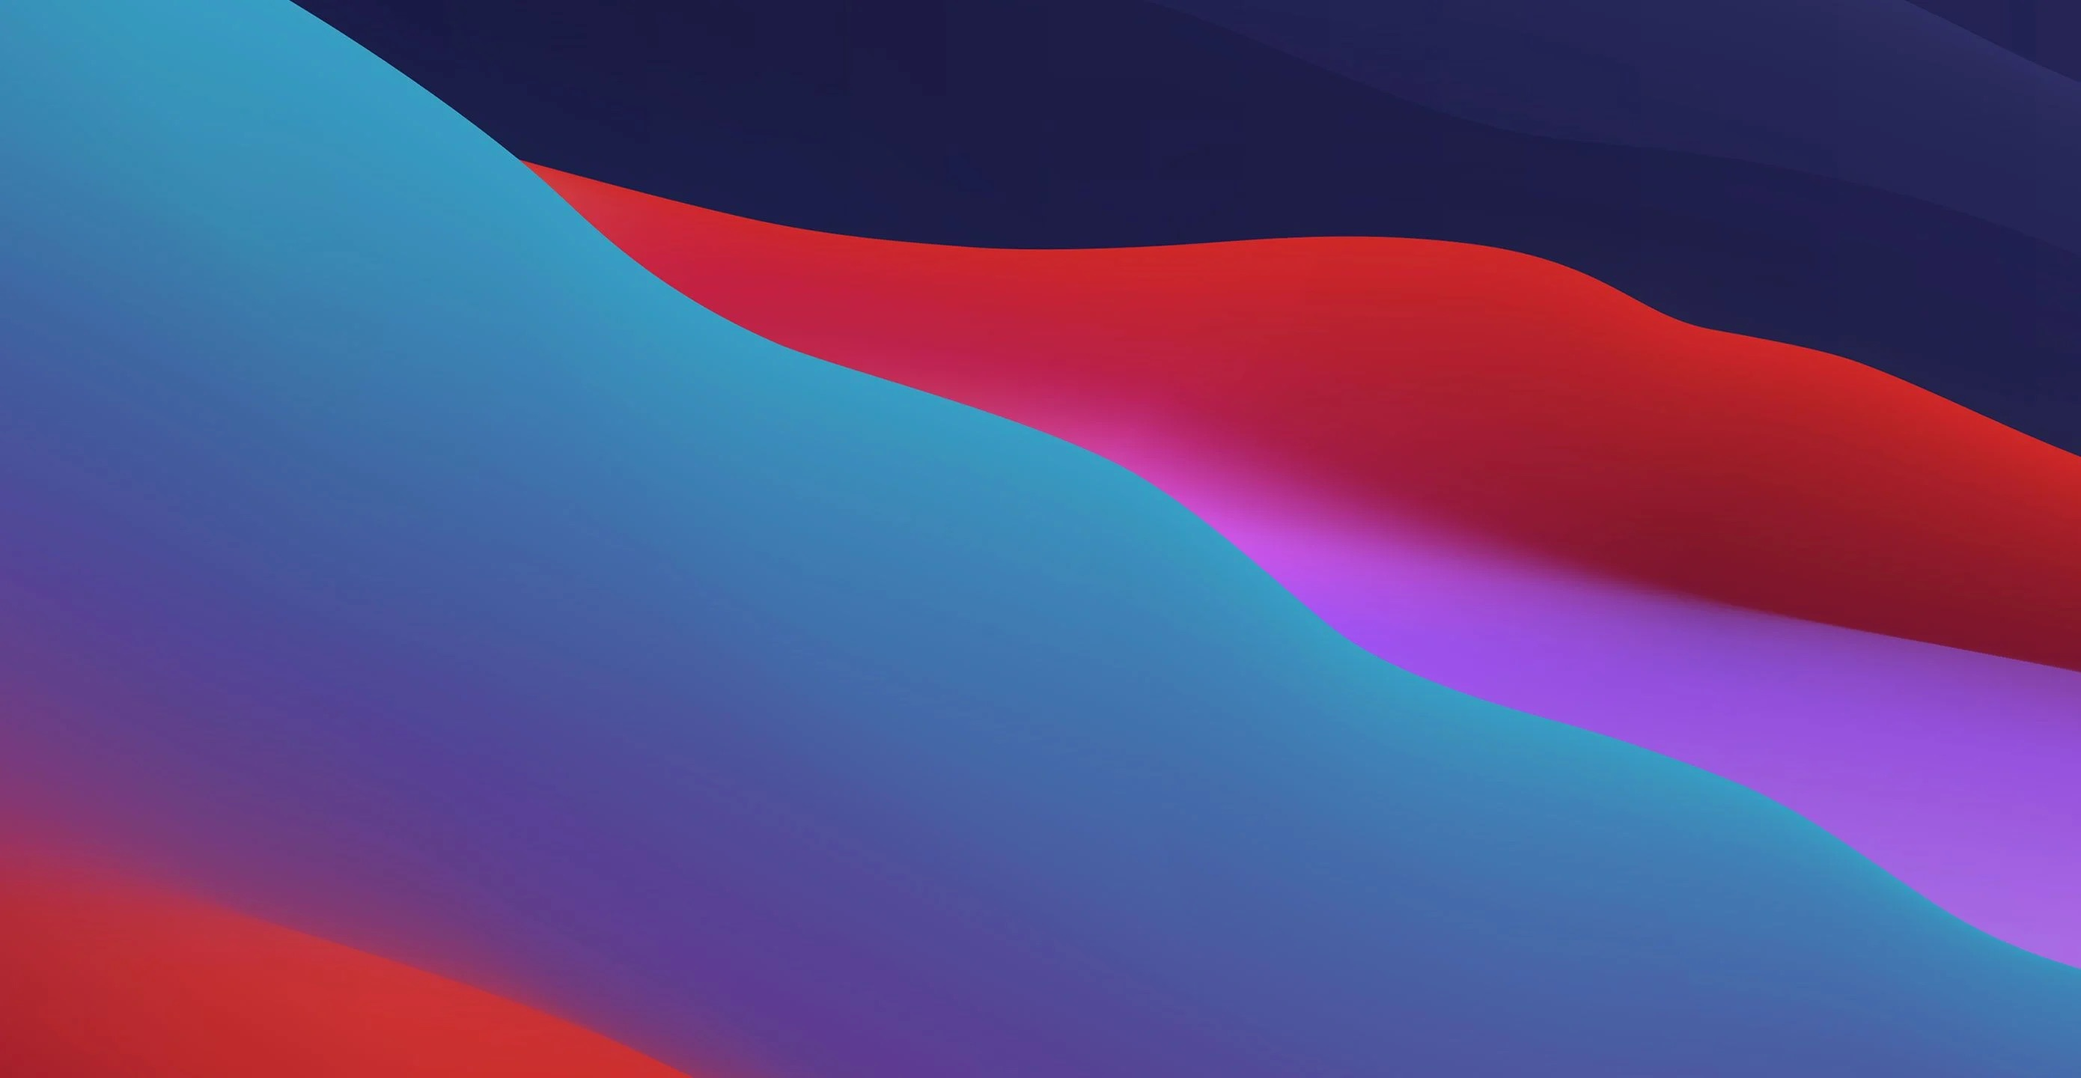
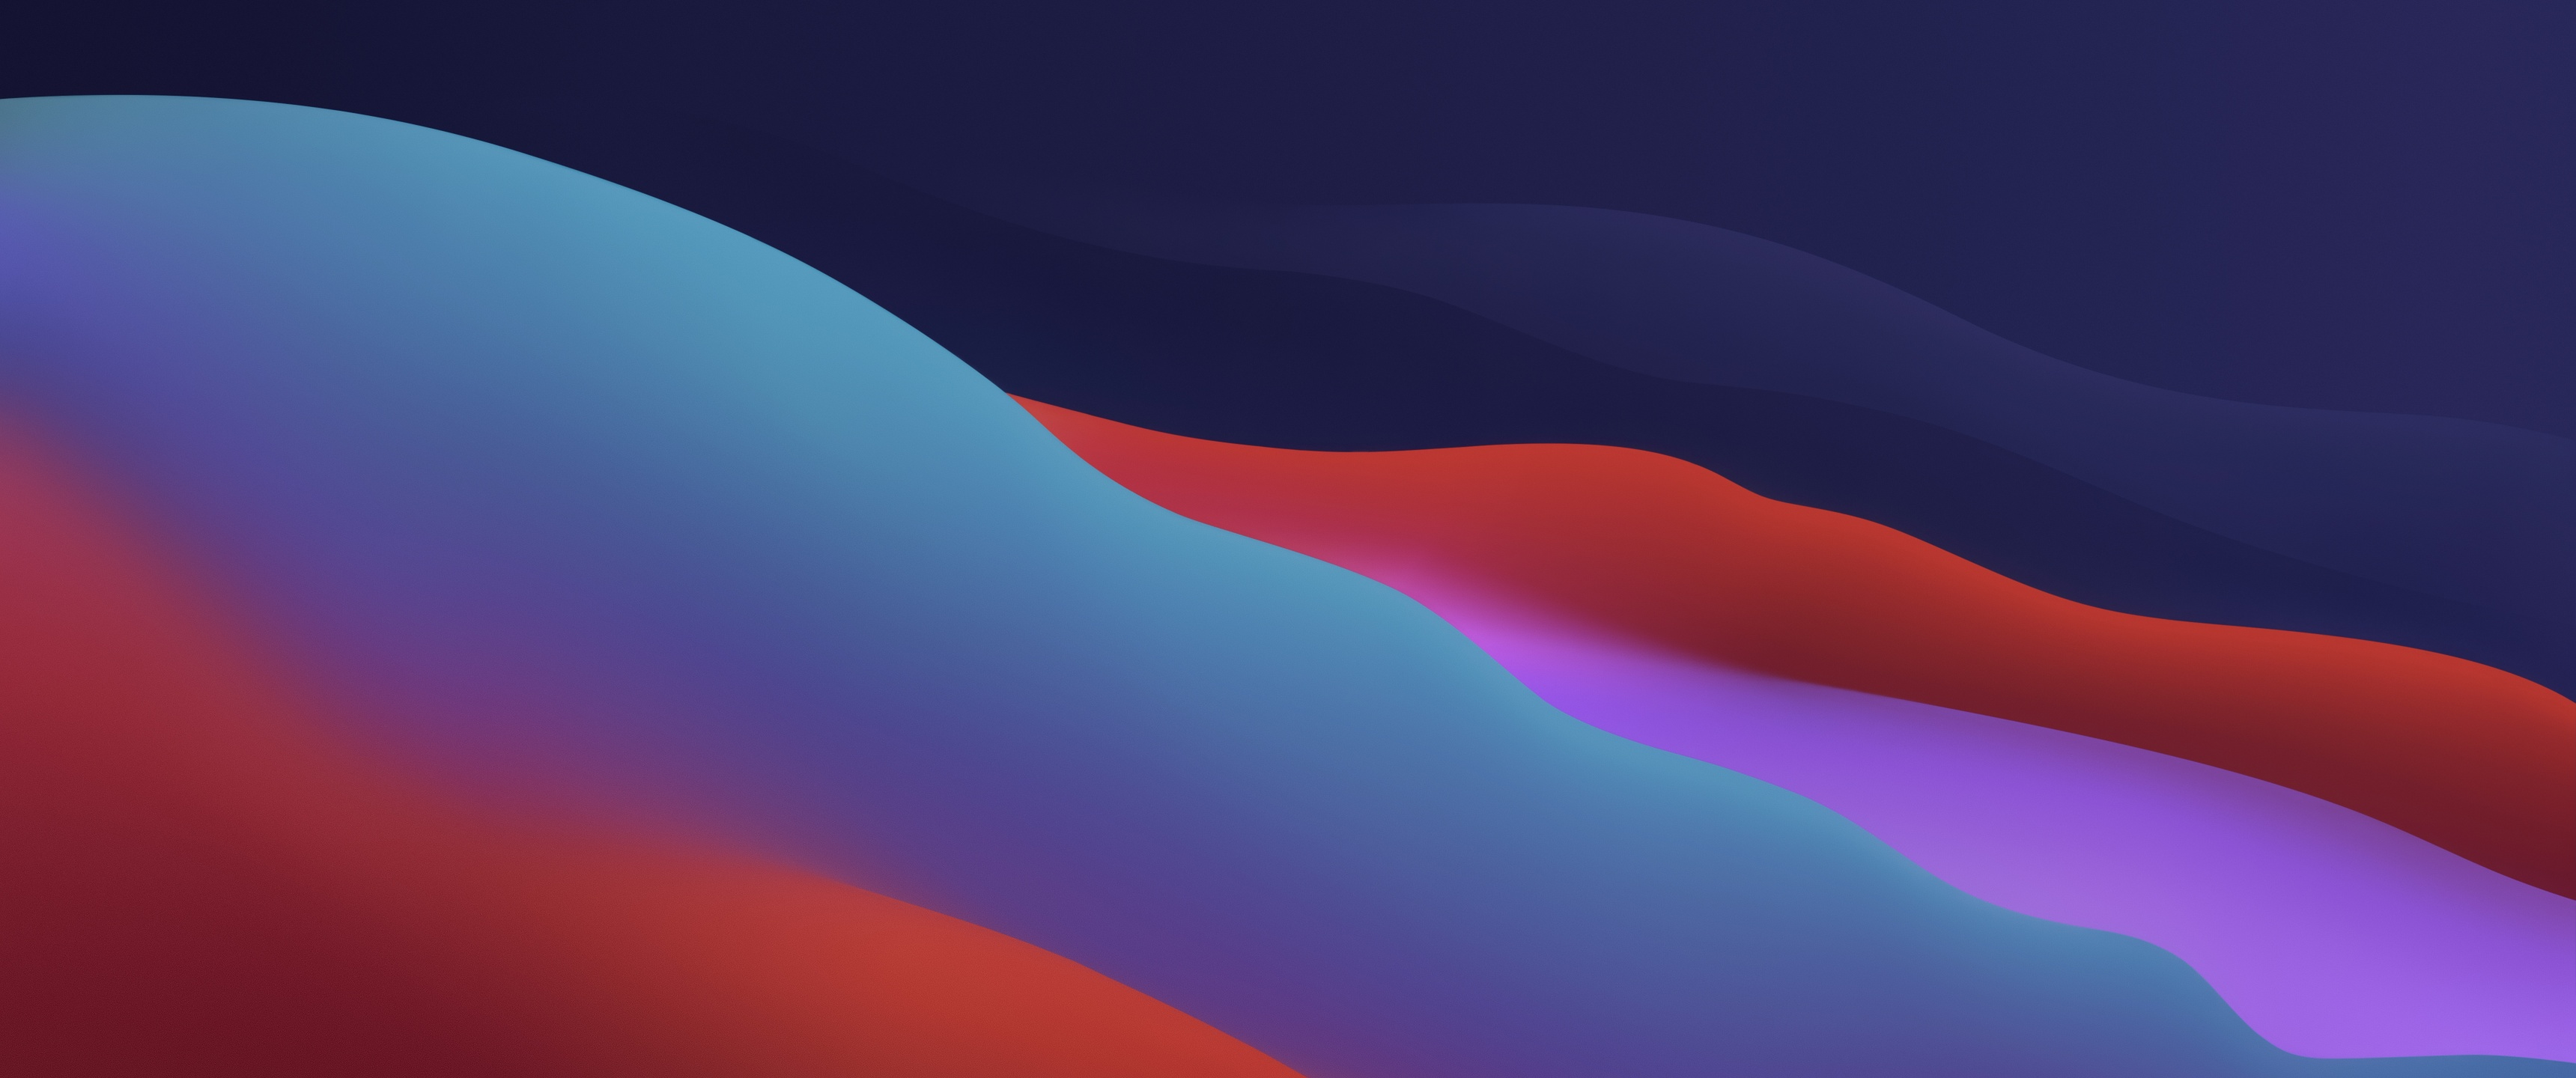
fuck les macs

diff --git a/components/AudioRecorder.tsx b/components/AudioRecorder.tsx
@@ -9,11 +9,14 @@ let mediaRecorder: MediaRecorder
 let chunks: Blob[] = []
 
 // @ts-ignore
-export default function AudioRecorder({history, setHistory, setAudioUrl}) {
+export default function AudioRecorder({ history, setHistory, setAudioUrl }) {
 	const [recording, setRecording] = useState(false)
+	const [isLoading, setIsLoading] = useState(false)
 
 	async function handleRecorderStop() {
-		const blob = new Blob(chunks, {type: "audio/wav"})
+		setIsLoading(true)
+
+		const blob = new Blob(chunks, { type: "audio/wav" })
 		const formData = new FormData()
 		formData.append("recording", blob)
 		let res = await fetch("/api/transcribe", {
@@ -21,7 +24,7 @@ export default function AudioRecorder({history, setHistory, setAudioUrl}) {
 			body: formData
 		})
 		const json = await res.json()
-		const updateHistory = [...history, {role: "user", content: json}];
+		const updateHistory = [...history, { role: "user", content: json }];
 		setHistory(updateHistory)
 		res = await fetch("/api/think", {
 			method: "POST",
@@ -29,11 +32,13 @@ export default function AudioRecorder({history, setHistory, setAudioUrl}) {
 		})
 
 		const replyText = await res.json()
-		setHistory([...history, {role: "assistant", content: replyText}])
+		setHistory([...history, { role: "assistant", content: replyText }])
 		chunks = []
 
-		const req = await fetch("/api/speech", {method: "POST", body: JSON.stringify(replyText)})
+		const req = await fetch("/api/speech", { method: "POST", body: JSON.stringify(replyText) })
 		const audio = await req.blob()
+		
+		setIsLoading(false)
 
 		setAudioUrl(URL.createObjectURL(audio))
 	}
@@ -45,18 +50,18 @@ export default function AudioRecorder({history, setHistory, setAudioUrl}) {
 			mediaRecorder.stop()
 			return;
 		}
-		mediaStream = await navigator.mediaDevices.getUserMedia({audio: true})
+		mediaStream = await navigator.mediaDevices.getUserMedia({ audio: true })
 		mediaRecorder = new MediaRecorder(mediaStream)
 		mediaRecorder.onstop = handleRecorderStop
 		mediaRecorder.ondataavailable = (event) => chunks.push(event.data)
 		mediaRecorder.start()
 	}
 
-	return ( 
-		<>	
-			<Button onClick={toggleRecording} className="buttonPlay" size="lg" color={recording ? "danger" : "primary"}>
-							<Image className="iconRecord" src={recording ? "/image/stopIcon.png" : "/image/playIcon.png"} alt="play icon" height={50} width={50} />
-							{recording ? "Stop" : "Parler"}
+	return (
+		<>
+			<Button isLoading={isLoading} onClick={toggleRecording} className="buttonPlay" size="lg" color={isLoading ? "warning" : (recording ? "danger" : "primary")}>
+				{!isLoading && <Image className="iconRecord" src={recording ? "/image/stopIcon.png" : "/image/playIcon.png"} alt="play icon" height={50} width={50} />}
+				{isLoading ? "Chargement" : (recording ? "Stop" : "Parler")}
 			</Button>
 		</>
 	)

diff --git a/app/ia/page.tsx b/app/ia/page.tsx
@@ -1,38 +1,44 @@
 'use client'
-import { useEffect, useRef, useState } from "react";
+import { useEffect, useRef, useState } from 'react';
 import AudioRecorder from "@/components/AudioRecorder";
-import { openai } from "@/utils/openai";
 import Image from "next/image";
-import "@/app/style/style.css"
+import "@/app/style/style.css";
 import { Button, ButtonGroup } from "@nextui-org/button";
 
 type ChatData = {
-	role: "assistant" | "user",
-	content: string,
-}
+    role: "assistant" | "user",
+    content: string,
+};
 
 export default function Home() {
-	const [history, setHistory] = useState<ChatData[]>([])
-	const [audioUrl, setAudioUrl] = useState<string>("")
-	const [recording, setRecording] = useState(false)
-
+    const [history, setHistory] = useState<ChatData[]>([]);
+    const [audioUrl, setAudioUrl] = useState<string>("");
+    const [isPlaying, setIsPlaying] = useState<boolean>(false);
 
     const audioRef = useRef<HTMLAudioElement | null>(null);
 
     useEffect(() => {
         if (audioUrl && audioRef.current) {
+            setIsPlaying(true);
             audioRef.current.play();
         }
     }, [audioUrl]);
-	
-	return (
-		<div className="playerScreen">
-			<Image className="logo" priority src="/image/logo.png" alt="logo Name" height={100} width={100} />
-			<Image className="sellerLight" priority src="/image/sellerLight.png" alt="Seller Light" height={100} width={100} />
-			{audioUrl.length > 0 ? <img className="wave" src={"image/wave.gif"} alt="record wave..." /> : <div className="waveLine"></div>}
-            <audio ref={audioRef} src={audioUrl} />
-			<AudioRecorder history={history} setHistory={setHistory} setAudioUrl={setAudioUrl} />
 
-		</div>
-	);
+    const handleAudioEnded = () => {
+        setIsPlaying(false);
+    };
+
+    return (
+        <div className="playerScreen">
+            <Image className="logo" priority src="/image/logo.png" alt="logo Name" height={100} width={100} />
+            <Image className="sellerLight" priority  src={!isPlaying ? "/image/sellerLight.png" : "/image/sellerLoud.png"} alt="Seller Light" height={100} width={100} />
+            {isPlaying ? (
+                <img className="wave" src={"image/wave.gif"} alt="record wave..." />
+            ) : (
+                <div className="waveLine"></div>
+            )}
+            <audio ref={audioRef} src={audioUrl} onEnded={handleAudioEnded} />
+            <AudioRecorder history={history} setHistory={setHistory} setAudioUrl={setAudioUrl} />
+        </div>
+    );
 }

diff --git a/app/globals.css b/app/globals.css
@@ -14,7 +14,7 @@ body {
 	text-rendering: optimizeSpeed;
 	-webkit-font-smoothing: antialiased;
 
-	background-image: url('/image/bg.webp');
+	background-image: url('/image/bg.jpeg');
     background-size: cover;
     background-position: center;
 	object-fit: cover;

diff --git a/app/style/style.css b/app/style/style.css
@@ -30,7 +30,7 @@
 
 .recordButton{
 	position: absolute;
-	bottom: 0rem;
+	bottom: 0;
 	left: 0;
 	cursor: pointer;
 }
@@ -67,4 +67,8 @@
 	width: 100%;
 	height: 2px;
 	background-color: white;
+}
+
+.buttonPlay{
+	margin-bottom: 2rem;
 }
